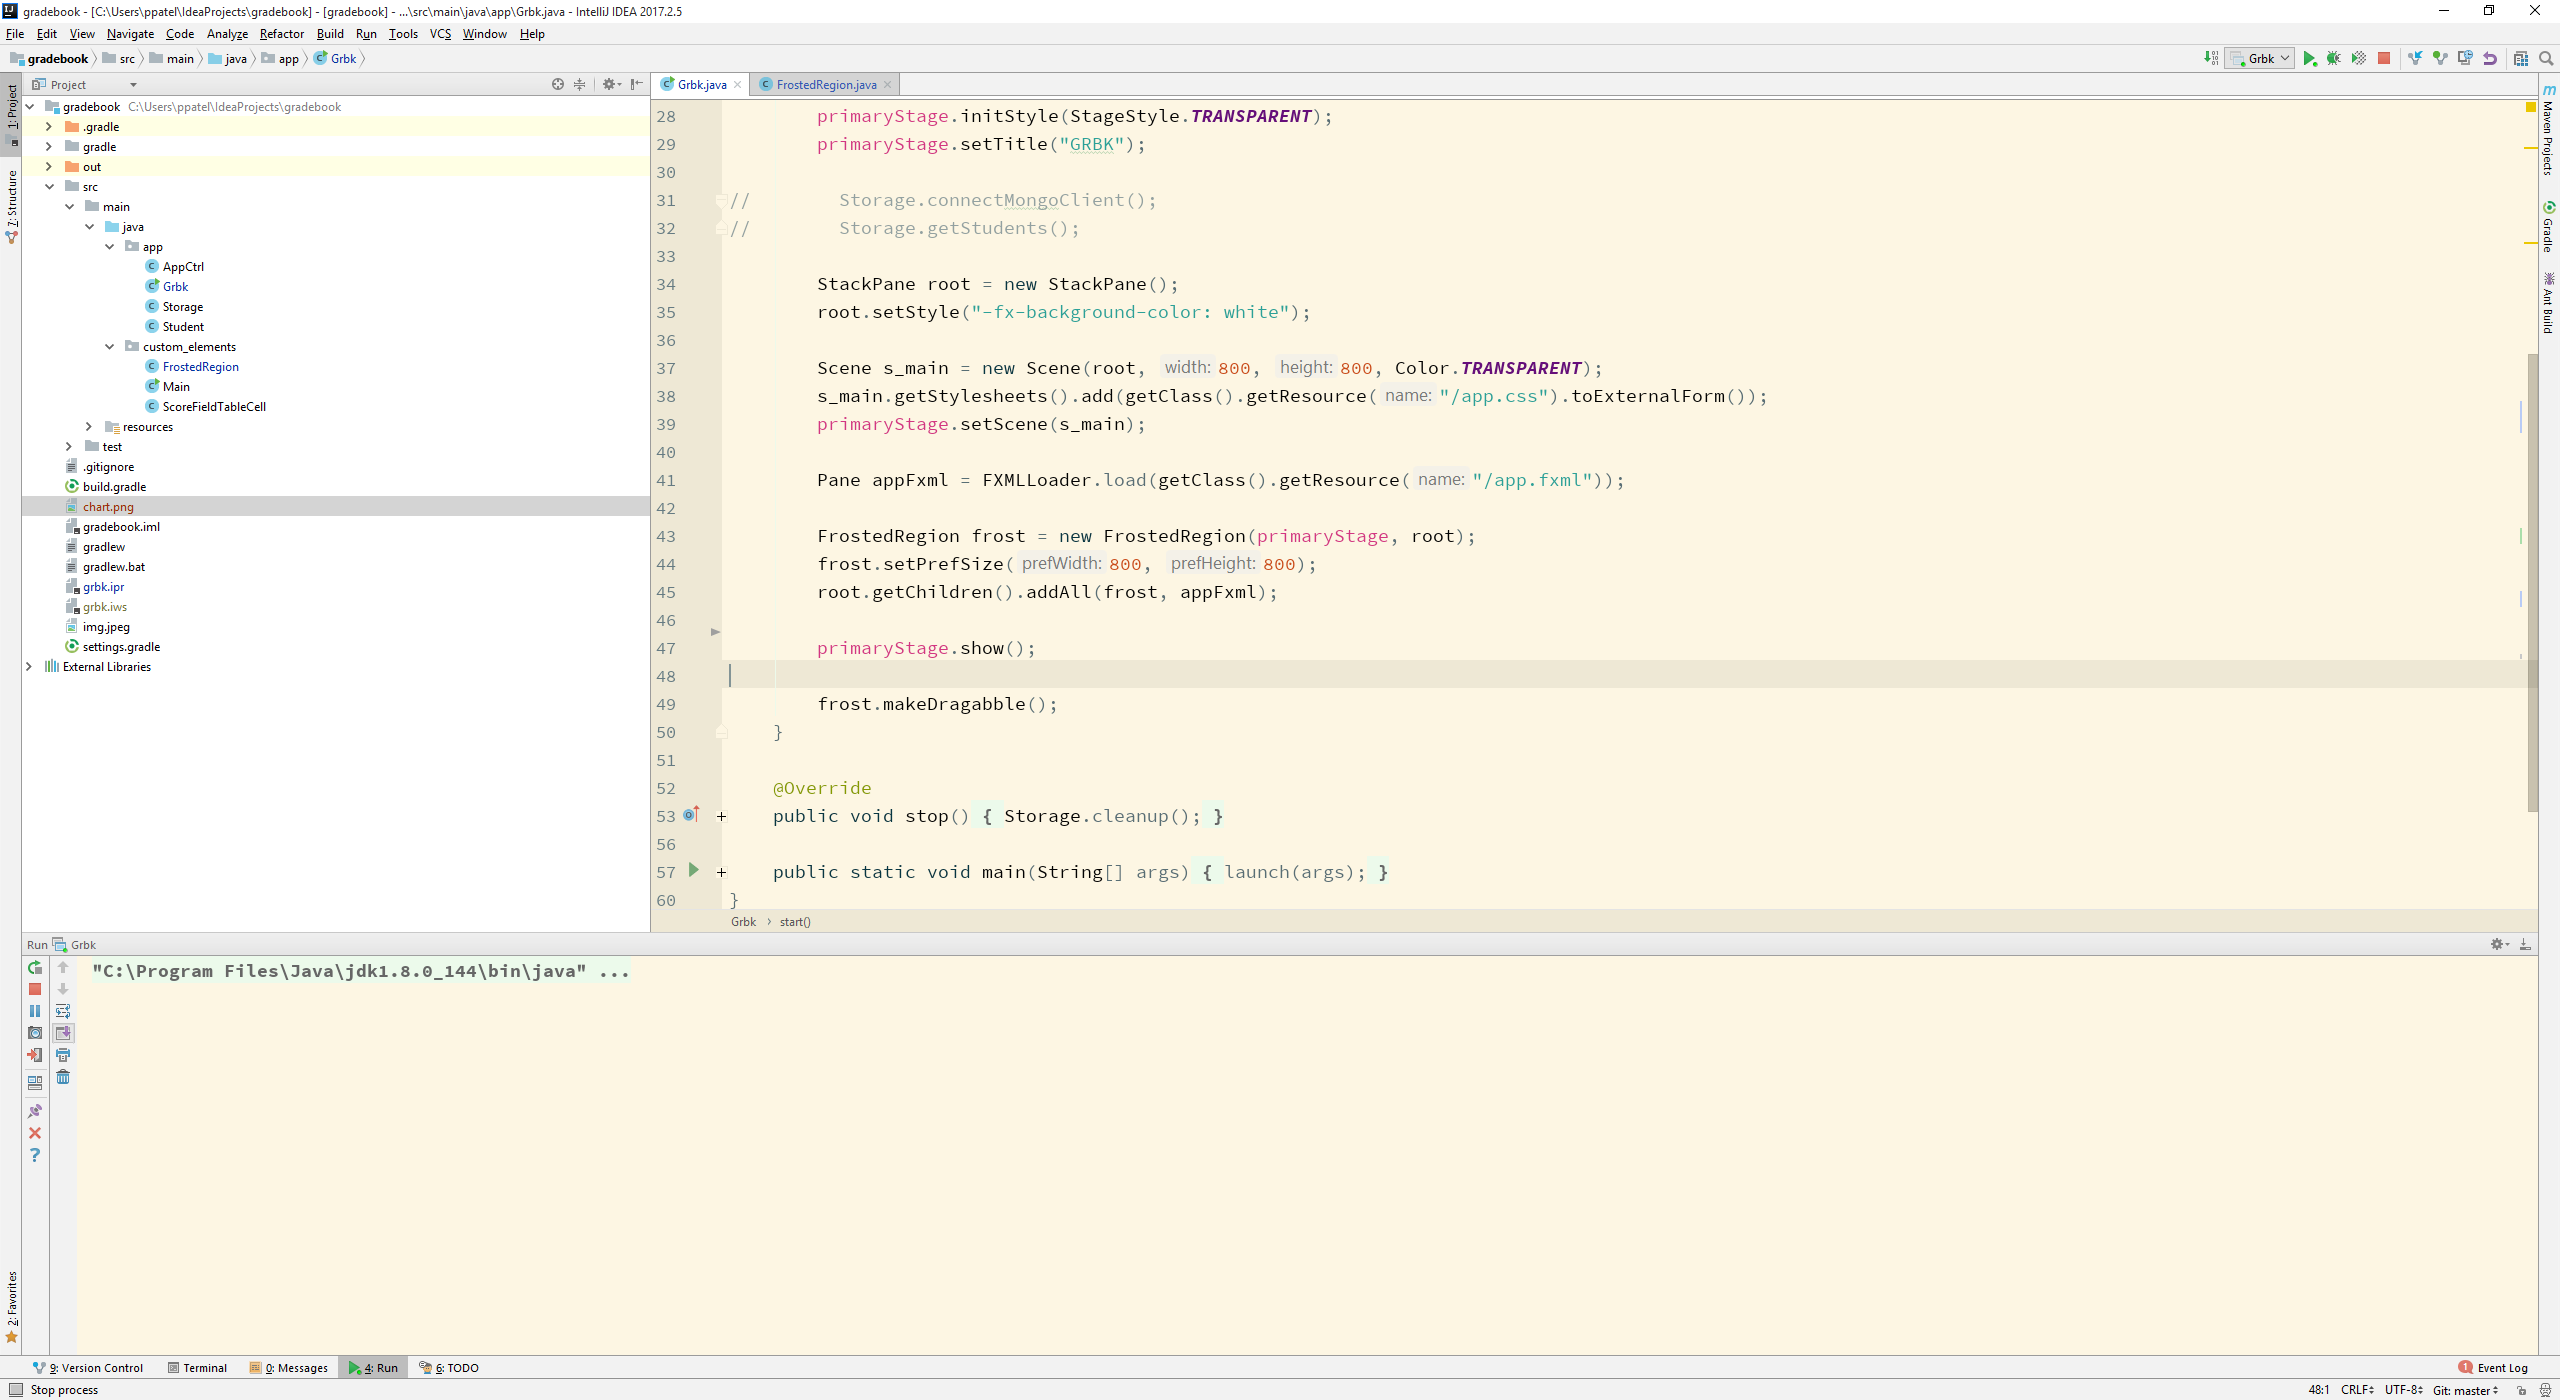
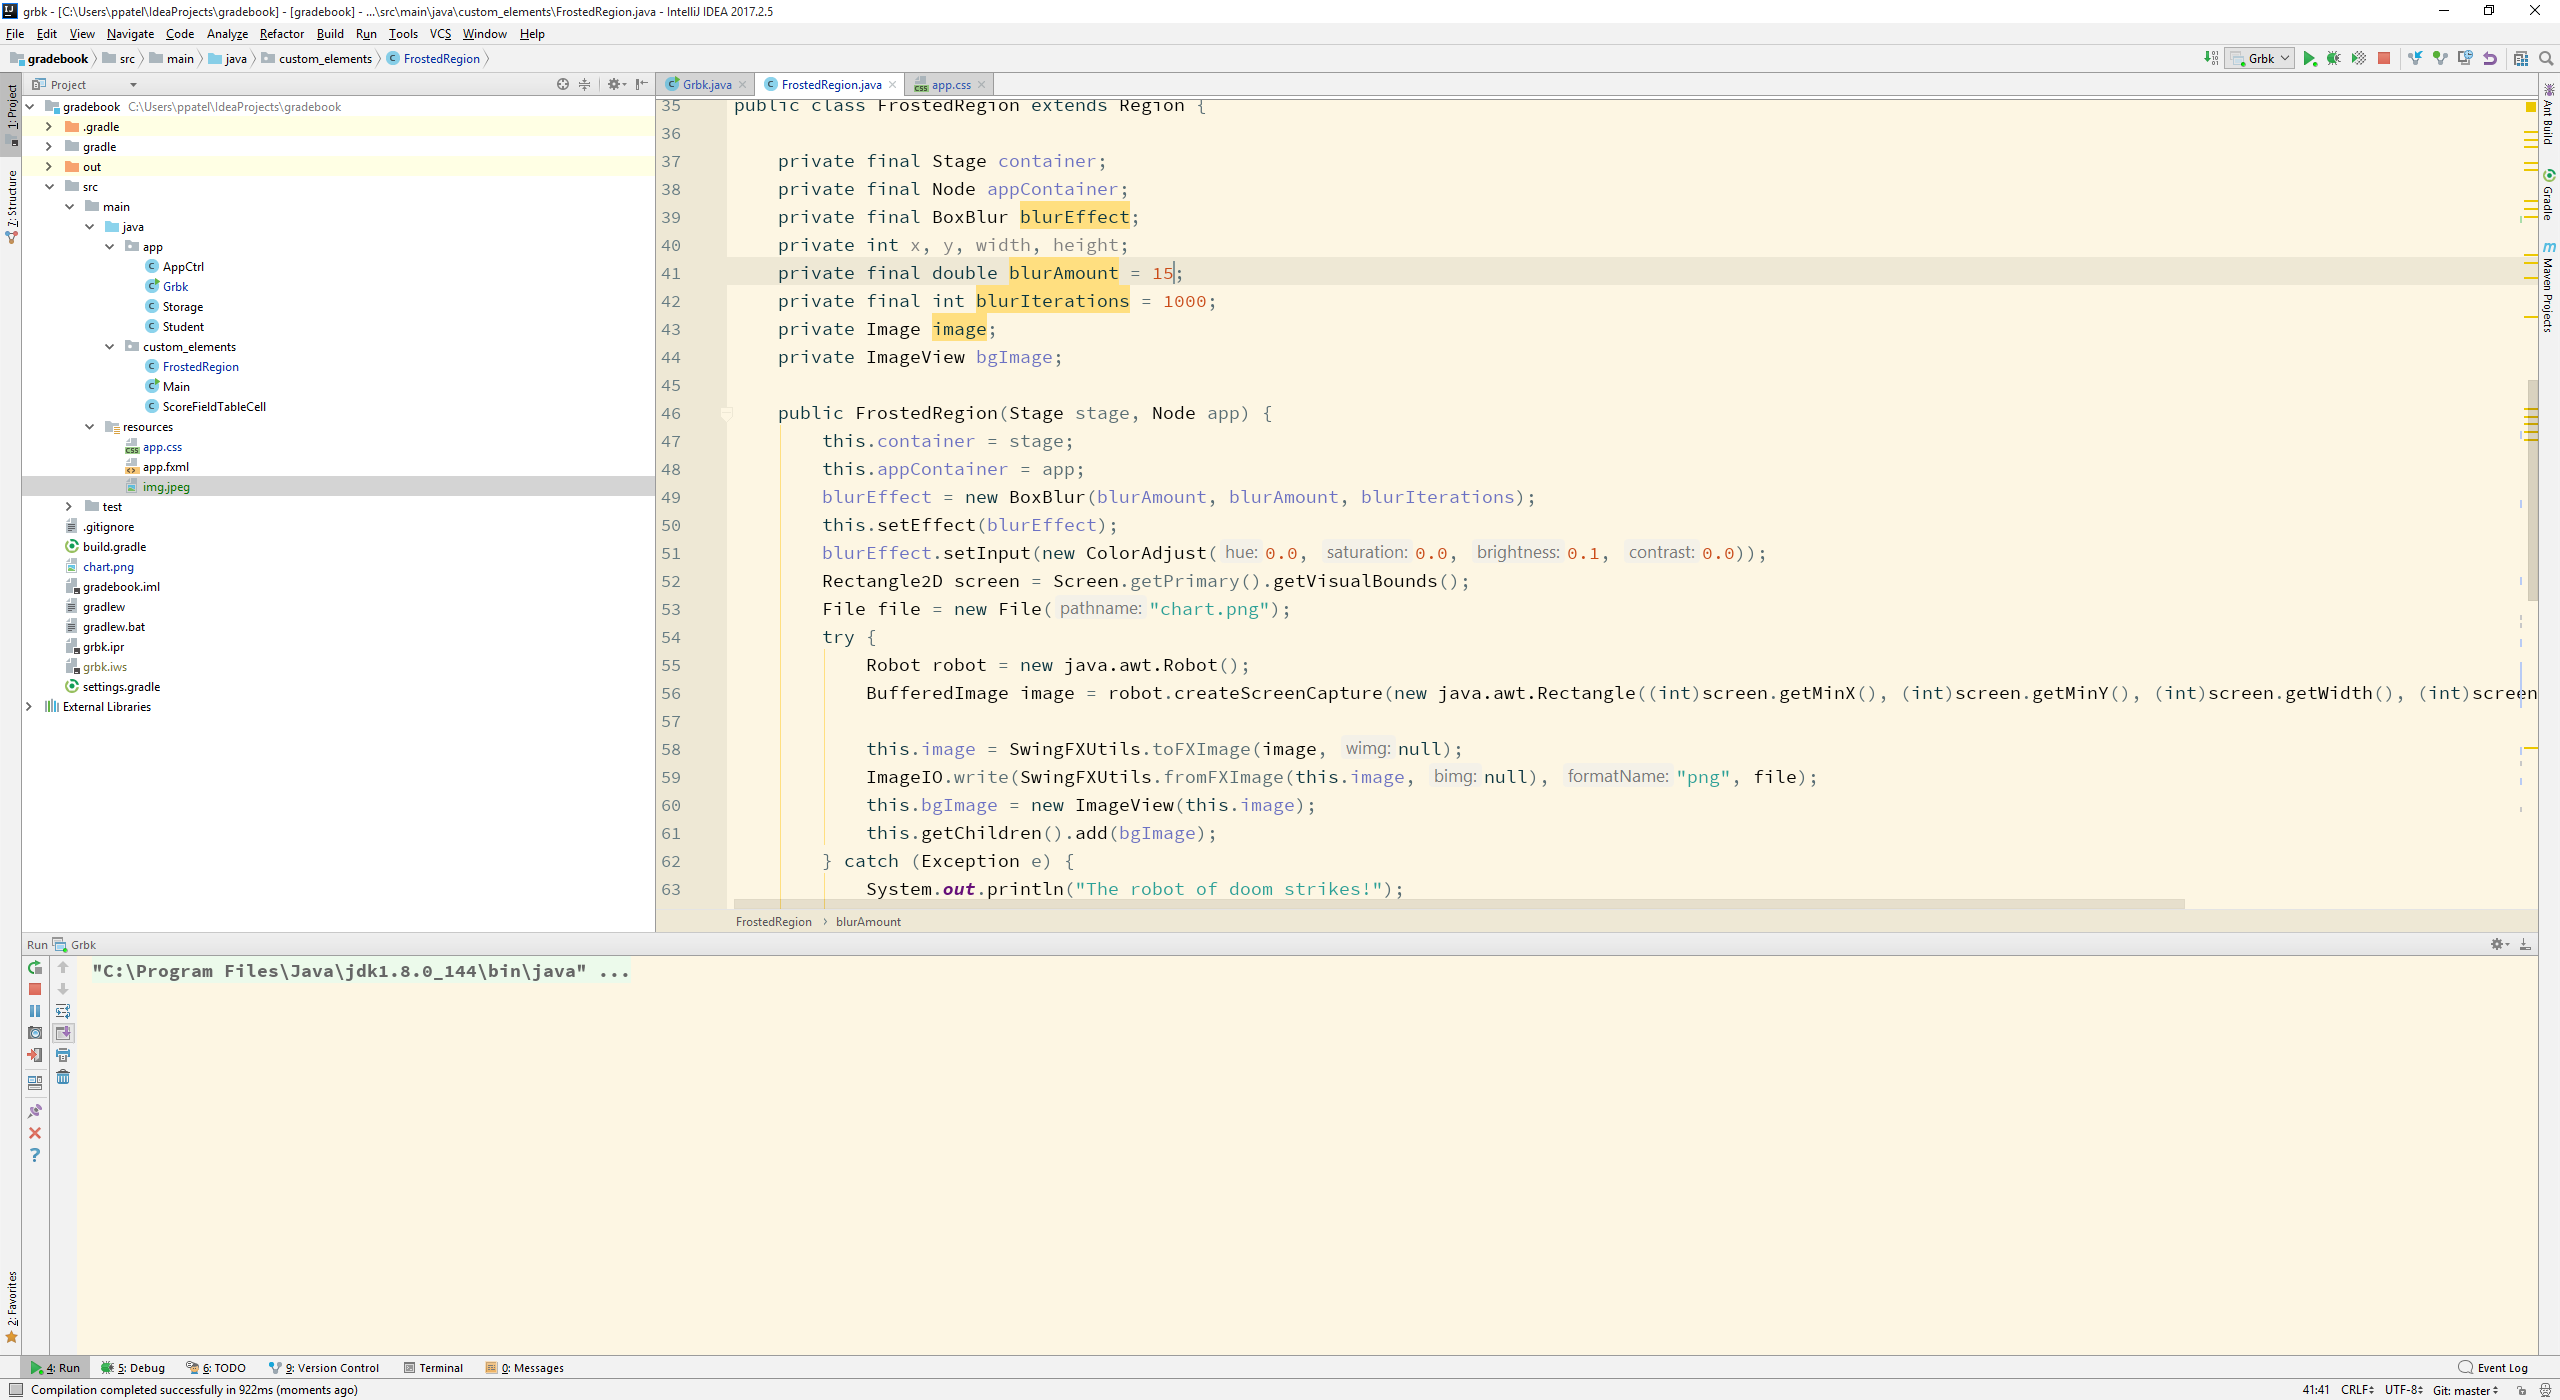
finished blur with drag, need to account for switching windows

diff --git a/out/production/resources/app.css b/out/production/resources/app.css
@@ -1,6 +1,6 @@
-.tab-content-area {
+/*.tab-content-area {
     -fx-background-color: transparent;
-}
+}*/
 .tab {
     -fx-background-color: transparent;
 }

diff --git a/src/main/resources/app.css b/src/main/resources/app.css
@@ -1,6 +1,6 @@
-.tab-content-area {
+/*.tab-content-area {
     -fx-background-color: transparent;
-}
+}*/
 .tab {
     -fx-background-color: transparent;
 }

diff --git a/src/main/java/custom_elements/FrostedRegion.java b/src/main/java/custom_elements/FrostedRegion.java
@@ -11,6 +11,7 @@ import javafx.scene.Cursor;
 import javafx.scene.Node;
 import javafx.scene.Scene;
 import javafx.scene.SnapshotParameters;
+import javafx.scene.control.TabPane;
 import javafx.scene.effect.BoxBlur;
 import javafx.scene.effect.ColorAdjust;
 import javafx.scene.image.Image;
@@ -38,7 +39,7 @@ public class FrostedRegion extends Region {
     private final BoxBlur blurEffect;
     private int x, y, width, height;
     private final double blurAmount = 15;
-    private final int blurIterations = 100;
+    private final int blurIterations = 1000;
     private Image image;
     private ImageView bgImage;
 
@@ -47,8 +48,7 @@ public class FrostedRegion extends Region {
         this.appContainer = app;
         blurEffect = new BoxBlur(blurAmount, blurAmount, blurIterations);
         this.setEffect(blurEffect);
-        blurEffect.setInput(new ColorAdjust(0.0, 0.0, 0.5, 0.0));
-
+        blurEffect.setInput(new ColorAdjust(0.0, 0.0, 0.1, 0.0));
         Rectangle2D screen = Screen.getPrimary().getVisualBounds();
         File file = new File("chart.png");
         try {
@@ -58,68 +58,36 @@ public class FrostedRegion extends Region {
             this.image = SwingFXUtils.toFXImage(image, null);
             ImageIO.write(SwingFXUtils.fromFXImage(this.image, null), "png", file);
             this.bgImage = new ImageView(this.image);
-            Rectangle2D vp = new Rectangle2D(this.container.getX(), this.container.getY(), this.container.getWidth(), this.container.getHeight());
-            System.out.println(vp);
-            this.bgImage.setViewport(vp);
-            ((StackPane) app).getChildren().add(bgImage);
+            this.getChildren().add(bgImage);
         } catch (Exception e) {
             System.out.println("The robot of doom strikes!");
             e.printStackTrace();
         }
-
-        AnimationTimer timer = new AnimationTimer() {
-
-            @Override
-            public void handle(long time) {
-//                updateBackground();
-            }
-        };
-
-//        timer.start();
-    }
-
-    public void updateBackground() {
-        if (this.getWidth() < 1 || this.getHeight() < 1 || this.getOpacity() == 0 || this.x == this.container.getX() || this.y == this.container.getY()) {
-            return;
-        }
-
-        this.x = (int) this.container.getX();
-        this.y = (int) this.container.getY();
-        this.width = (int) this.container.getWidth();
-        this.height = (int) this.container.getHeight();
-
-        //TODO: change to image view and move viewport as dragged
-//        ImageView bgImage = new ImageView(image);
-//        bgImage.setViewport();
     }
 
     public void makeDragabble() {
-        final BooleanProperty inDrag = new SimpleBooleanProperty(false);
+//        final BooleanProperty inDrag = new SimpleBooleanProperty(false);
         final Delta dragDelta = new Delta();
 
-        this.appContainer.setOnMousePressed(mouseEvent -> {
+        Rectangle2D vp = new Rectangle2D(this.container.getX(), this.container.getY(), this.container.getWidth(), this.container.getHeight());
+        this.bgImage.setViewport(vp);
+
+        Node tp = ((Pane) ((StackPane)this.appContainer).getChildren().get(1)).getChildren().get(0);
+
+        tp.setOnMousePressed(mouseEvent -> {
             dragDelta.x = this.container.getX() - mouseEvent.getScreenX();
             dragDelta.y = this.container.getY() - mouseEvent.getScreenY();
             this.appContainer.setCursor(Cursor.MOVE);
         });
 
-        this.appContainer.setOnMouseReleased(mouseEvent -> {
+        tp.setOnMouseReleased(mouseEvent -> {
             this.appContainer.setCursor(Cursor.DEFAULT);
-
-            if (inDrag.get()) {
-//                this.container.hide();
-            }
-
-            inDrag.set(false);
-//            this.container.show();
         });
 
-        this.appContainer.setOnMouseDragged(mouseEvent -> {
+        tp.setOnMouseDragged(mouseEvent -> {
             this.container.setX(mouseEvent.getScreenX() + dragDelta.x);
             this.container.setY(mouseEvent.getScreenY() + dragDelta.y);
             this.bgImage.setViewport(new Rectangle2D(mouseEvent.getScreenX() + dragDelta.x, mouseEvent.getScreenY() + dragDelta.y, this.container.getWidth(), this.container.getHeight()));
-            inDrag.set(true);
-//            this.container.hide();
         });
     }
 

diff --git a/src/main/java/app/Grbk.java b/src/main/java/app/Grbk.java
@@ -7,6 +7,7 @@ import javafx.fxml.FXMLLoader;
 import javafx.scene.Parent;
 import javafx.scene.Scene;
 import javafx.scene.effect.BoxBlur;
+import javafx.scene.image.ImageView;
 import javafx.scene.layout.Pane;
 import javafx.scene.layout.StackPane;
 import javafx.scene.paint.Color;
@@ -22,8 +23,6 @@ public class Grbk extends Application {
 
     @Override
     public void start(Stage window) throws Exception {
-        Platform.setImplicitExit(false);
-
         primaryStage = window;
         primaryStage.initStyle(StageStyle.TRANSPARENT);
         primaryStage.setTitle("GRBK");
@@ -32,15 +31,14 @@ public class Grbk extends Application {
 //        Storage.getStudents();
 
         StackPane root = new StackPane();
-        root.setStyle("-fx-background-color: white");
+        root.setStyle("-fx-background-color: transparent");
 
         Scene s_main = new Scene(root, 800, 800, Color.TRANSPARENT);
         s_main.getStylesheets().add(getClass().getResource("/app.css").toExternalForm());
 
         Pane appFxml = FXMLLoader.load(getClass().getResource("/app.fxml"));
-
         FrostedRegion frost = new FrostedRegion(primaryStage, root);
-        frost.setPrefSize(800, 800);
+        frost.setPrefSize(80, 80);
         root.getChildren().addAll(frost, appFxml);
 
         primaryStage.setScene(s_main);
@@ -51,7 +49,7 @@ public class Grbk extends Application {
 
     @Override
     public void stop() {
-        Storage.cleanup();
+//        Storage.cleanup();
     }
 
     public static void main(String[] args) {
